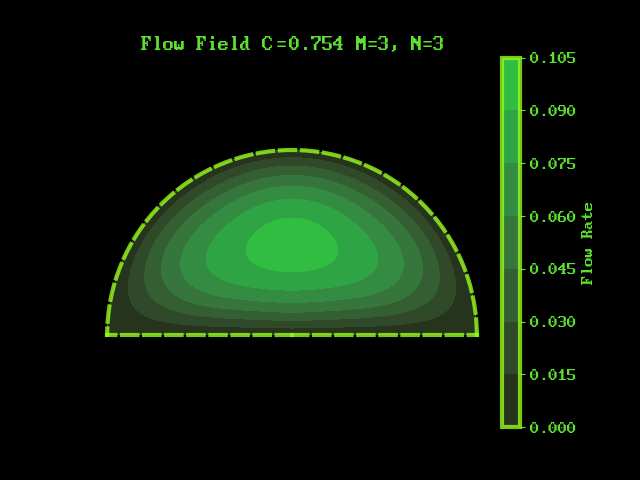
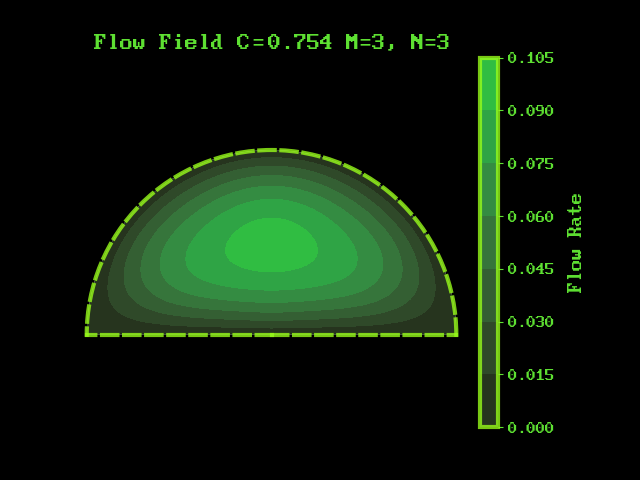
feat: :art: processed images
Proces images on photomosh.com

diff --git a/src.py b/src.py
@@ -177,7 +177,7 @@ class GalerkinObject():
 
         # Spines for cb are called ['left', 'right', 'bottom', 'top', 'outline']
         # Got by calling cb.ax.spines.keys() and iterating over them
-        cb.set_label(r"Flow Rate", color="#5EE032")
+        cb.set_label(r"Flow Rate", color="#5EE032", labelpad=10, size=12)
         cb.ax.xaxis.set_tick_params(color="#5EE032")
         cb.ax.yaxis.set_tick_params(color="#5EE032")
         cb.ax.tick_params(axis="x", colors="#5EE032")
@@ -207,8 +207,9 @@ class GalerkinObject():
         ax.spines['start'].set_alpha(0.8)
         ax.spines['start'].set_linestyle("--")
 
-        plt.title(f"{title}", color="#5EE032")
+        plt.title(f"{title}", color="#5EE032", size=14)
         plt.grid(False)
+        plt.subplots_adjust(right=0.86)
         if save:
             plt.savefig(filename, dpi=300, bbox_inches="tight")
         plt.show()
